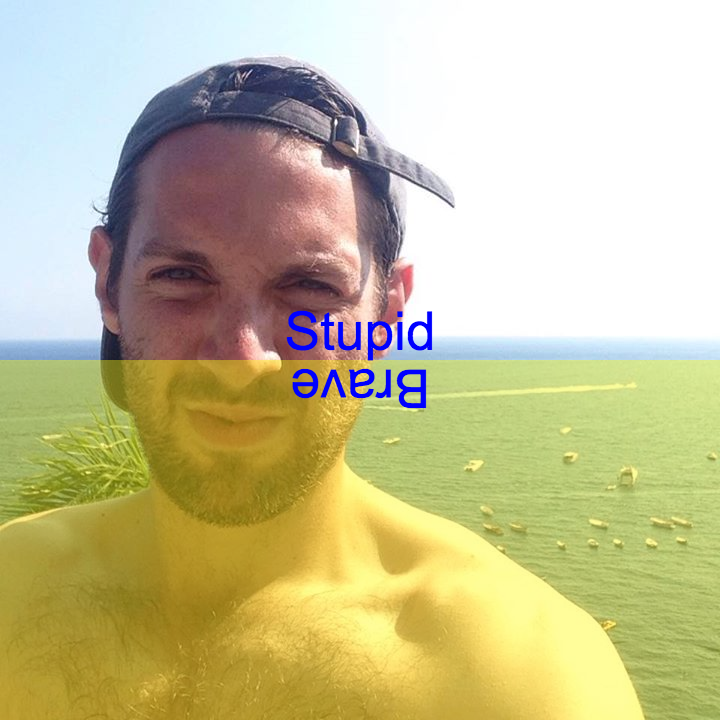
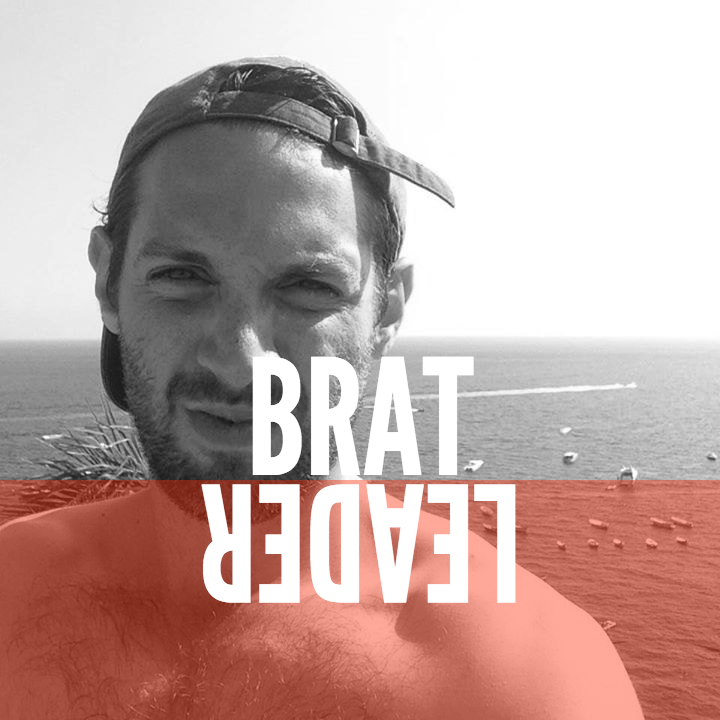
added black and white and real font to iamge

diff --git a/public/js/all.js b/public/js/all.js
@@ -7,23 +7,27 @@
       context,
       imageObj = new Image();
 
-      var $form = $(this);
+      var $form         = $(this);
       var imagePath     = this.imgPath.value;
-      var firstWord     = this.first.value;
-      var secondWord    = this.second.value;
+      var firstWord     = this.first.value.toUpperCase();
+      var secondWord    = this.second.value.toUpperCase();
       var boxColor      = this.color.value;
       var $targetImage  = $('#targetImage');
       var $updatedImage = $('#updated-image');
+
+      //determines how far down the image/canvas to place the words and colorbox
+      var overlayPlacementModifier = 3;
 
       
 
       initiateCanvas();
 
       imageObj.onload = function() {
-        
-        setDimensionsOfCanvas(this);
+
+        setDimensionsOfCanvasToImageSize(this);
+        convertTograyScale();
         drawOverlayBox(this);
-        setUpFont('40pt Arial', 'blue');
+        setUpFont('160px league-gothic', 'white');
 
         var firstWidth = getTextWidth(firstWord);
         addWordToCanvas(firstWord, firstWidth, this);
@@ -48,10 +52,12 @@
         context = canvas.getContext('2d');
         imageObj = new Image();
         imageObj.crossOrigin = "Anonymous";
+
+        //fires imgObj.onload
         imageObj.src = imagePath;
       }  
 
-      function setDimensionsOfCanvas(imgRef)
+      function setDimensionsOfCanvasToImageSize(imgRef)
       {
         canvas.width = imgRef.width;
         canvas.height = imgRef.height;
@@ -62,7 +68,8 @@
         context.save();
         context.globalAlpha = 0.4;
         context.fillStyle = boxColor;
-        context.fillRect(0, imgRef.height / 2, imgRef.width, imgRef.height / 2);
+        var intendedBoxPosition = imgRef.height / overlayPlacementModifier;
+        context.fillRect(0, imgRef.height - intendedBoxPosition, imgRef.width, imgRef.height / 2);
         context.restore();
       }  
 
@@ -77,26 +84,33 @@
 
       function addWordToCanvas(word, wordWidth, imgRef, reverse){
         reverse = typeof reverse !== 'undefined' ? reverse : false;
-
+        var intendedWordPosition = imgRef.height / overlayPlacementModifier;
         if(reverse){
-          context.fillText(word, -(imgRef.width + wordWidth) / 2, -(imgRef.height / 2 + 10));
+          context.fillText(word, -(imgRef.width + wordWidth) / 2, -(imgRef.height - intendedWordPosition + 5));
         }else{
-          context.fillText(word, (imgRef.width - wordWidth) / 2, imgRef.height / 2 - 10);  
+          context.fillText(word, (imgRef.width - wordWidth) / 2, imgRef.height - intendedWordPosition - 5);  
         }
-      }
-
-      function setGradient(){
-        var gradient = context.createLinearGradient(0, 0, 0, canvas.height);
-
-        gradient.addColorStop(0, 'rgba(255,255,255,0)');
-        gradient.addColorStop(1, 'rgba(255,255,255,1)');
-        
       }
 
       function updateImgToUserGeneratedImage(){
         var imageData = canvas.toDataURL();
         $updatedImage.val(imageData);
       }
+
+      function convertTograyScale() {
+        var imgData = context.getImageData(0, 0, canvas.width, canvas.height);
+        var pixels  = imgData.data;
+        for (var i = 0, n = pixels.length; i < n; i += 4) {
+          var grayscale = pixels[i] * .3 + pixels[i+1] * .59 + pixels[i+2] * .11;
+            pixels[i  ] = grayscale;        // red
+            pixels[i+1] = grayscale;        // green
+            pixels[i+2] = grayscale;        // blue
+            //pixels[i+3]              is alpha
+          }
+        //redraw the image in black & white
+        context.putImageData(imgData, 0, 0);
+      }
+
 
       function sendAjaxRequest(data){
         $.ajax({

diff --git a/resources/assets/js/imageBuilder.js b/resources/assets/js/imageBuilder.js
@@ -9,21 +9,25 @@
 
       var $form         = $(this);
       var imagePath     = this.imgPath.value;
-      var firstWord     = this.first.value;
-      var secondWord    = this.second.value;
+      var firstWord     = this.first.value.toUpperCase();
+      var secondWord    = this.second.value.toUpperCase();
       var boxColor      = this.color.value;
       var $targetImage  = $('#targetImage');
       var $updatedImage = $('#updated-image');
+
+      //determines how far down the image/canvas to place the words and colorbox
+      var overlayPlacementModifier = 3;
 
       
 
       initiateCanvas();
 
       imageObj.onload = function() {
-        
+
         setDimensionsOfCanvasToImageSize(this);
+        convertTograyScale();
         drawOverlayBox(this);
-        setUpFont('40pt Arial', 'blue');
+        setUpFont('160px league-gothic', 'white');
 
         var firstWidth = getTextWidth(firstWord);
         addWordToCanvas(firstWord, firstWidth, this);
@@ -64,7 +68,8 @@
         context.save();
         context.globalAlpha = 0.4;
         context.fillStyle = boxColor;
-        context.fillRect(0, imgRef.height / 2, imgRef.width, imgRef.height / 2);
+        var intendedBoxPosition = imgRef.height / overlayPlacementModifier;
+        context.fillRect(0, imgRef.height - intendedBoxPosition, imgRef.width, imgRef.height / 2);
         context.restore();
       }  
 
@@ -79,26 +84,33 @@
 
       function addWordToCanvas(word, wordWidth, imgRef, reverse){
         reverse = typeof reverse !== 'undefined' ? reverse : false;
-
+        var intendedWordPosition = imgRef.height / overlayPlacementModifier;
         if(reverse){
-          context.fillText(word, -(imgRef.width + wordWidth) / 2, -(imgRef.height / 2 + 10));
+          context.fillText(word, -(imgRef.width + wordWidth) / 2, -(imgRef.height - intendedWordPosition + 5));
         }else{
-          context.fillText(word, (imgRef.width - wordWidth) / 2, imgRef.height / 2 - 10);  
+          context.fillText(word, (imgRef.width - wordWidth) / 2, imgRef.height - intendedWordPosition - 5);  
         }
-      }
-
-      function setGradient(){
-        var gradient = context.createLinearGradient(0, 0, 0, canvas.height);
-
-        gradient.addColorStop(0, 'rgba(255,255,255,0)');
-        gradient.addColorStop(1, 'rgba(255,255,255,1)');
-        
       }
 
       function updateImgToUserGeneratedImage(){
         var imageData = canvas.toDataURL();
         $updatedImage.val(imageData);
       }
+
+      function convertTograyScale() {
+        var imgData = context.getImageData(0, 0, canvas.width, canvas.height);
+        var pixels  = imgData.data;
+        for (var i = 0, n = pixels.length; i < n; i += 4) {
+          var grayscale = pixels[i] * .3 + pixels[i+1] * .59 + pixels[i+2] * .11;
+            pixels[i  ] = grayscale;        // red
+            pixels[i+1] = grayscale;        // green
+            pixels[i+2] = grayscale;        // blue
+            //pixels[i+3]              is alpha
+          }
+        //redraw the image in black & white
+        context.putImageData(imgData, 0, 0);
+      }
+
 
       function sendAjaxRequest(data){
         $.ajax({

diff --git a/resources/views/layouts/default.blade.php b/resources/views/layouts/default.blade.php
@@ -14,10 +14,13 @@
    @endif
    
     <title>Oasis</title>
+
+    <script src="https://use.typekit.net/gro7xnj.js"></script>
+    <script>try{Typekit.load({ async: true });}catch(e){}</script>
 </head>
 <body>
     @include('partials.nav')
-    
+
     @yield('content')
     
     <script src="https://code.jquery.com/jquery-2.1.4.min.js"></script>
